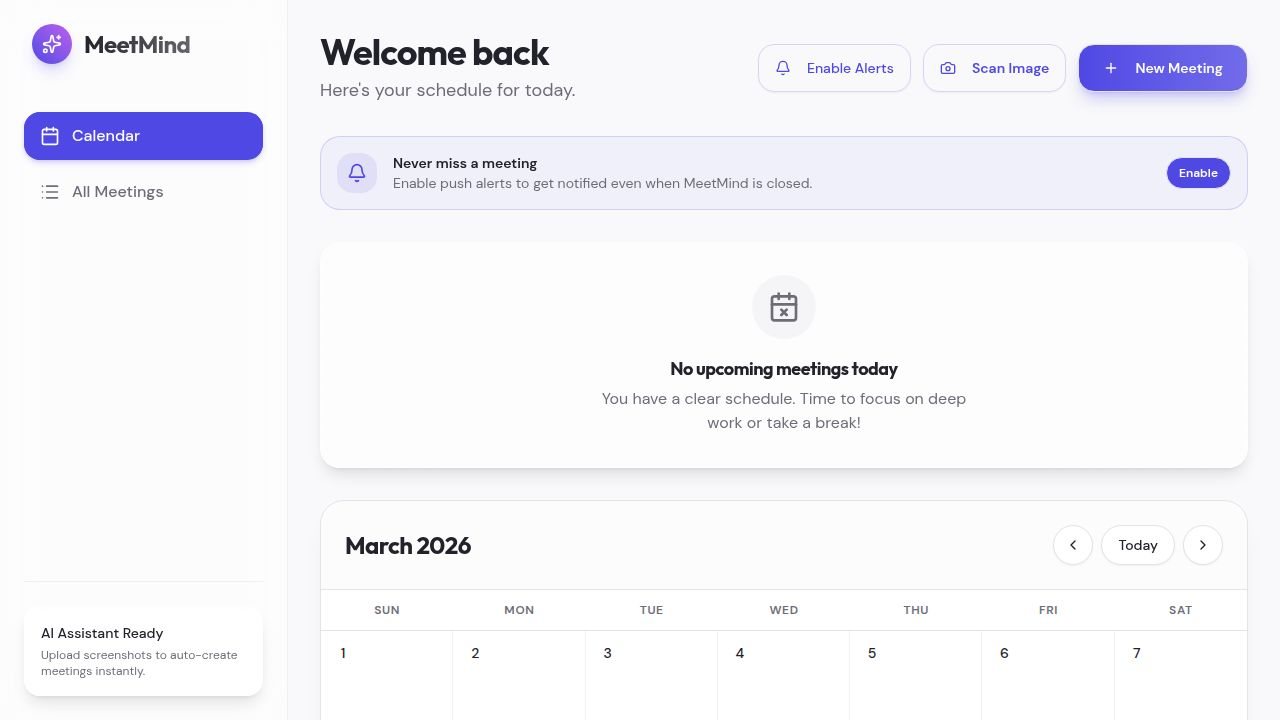
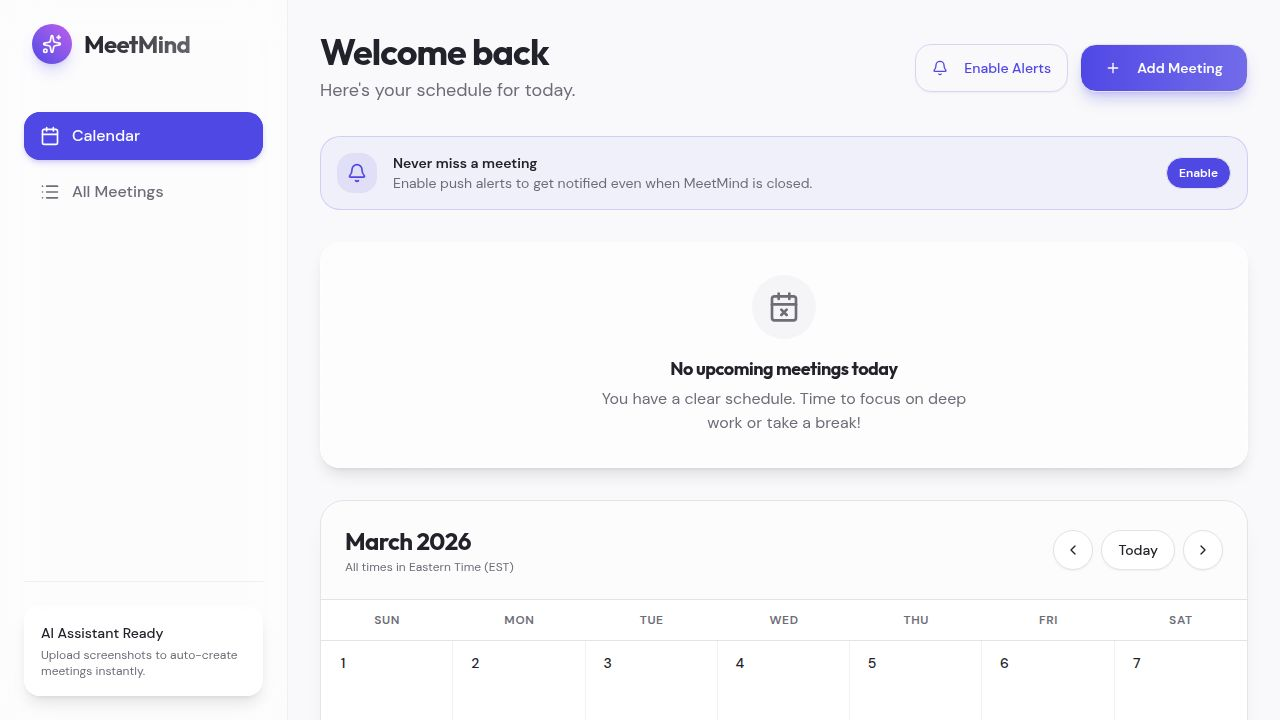
Add a meeting option choice to improve user meeting creation flow
Introduce AddMeetingChoiceModal, refactor dashboard to use it for new meeting creation, and remove the separate "Scan Image" button.

Replit-Commit-Author: Agent
Replit-Commit-Session-Id: 40a09d66-ea8f-438b-a3fd-0f206ba2ebe8
Replit-Commit-Checkpoint-Type: full_checkpoint
Replit-Commit-Event-Id: 2fe70bba-17da-4cfc-8b4c-a26fd8e86466
Replit-Commit-Screenshot-Url: https://storage.googleapis.com/screenshot-production-us-central1/be00c717-2a86-4972-aa62-d7dbd52639e6/40a09d66-ea8f-438b-a3fd-0f206ba2ebe8/zVXtkad
Replit-Helium-Checkpoint-Created: true

diff --git a/artifacts/meetmind/src/pages/dashboard.tsx b/artifacts/meetmind/src/pages/dashboard.tsx
@@ -3,7 +3,7 @@ import { useGetMeetings } from '@workspace/api-client-react';
 import { Meeting } from '@workspace/api-client-react/src/generated/api.schemas';
 import { compareAsc, parseISO } from 'date-fns';
 import { isTodayEST, isFutureEST } from '@/lib/timezone';
-import { Plus, Camera, Loader2, CalendarX, BellRing, BellOff, Bell } from 'lucide-react';
+import { Plus, Loader2, CalendarX, BellRing, BellOff, Bell } from 'lucide-react';
 import { Button } from '@/components/ui/button';
 import { Dialog, DialogContent, DialogTitle, DialogDescription } from '@/components/ui/dialog';
 import { Layout } from '@/components/layout';
@@ -13,6 +13,7 @@ import { MeetingForm } from '@/components/meeting-form';
 import { AiUploadModal } from '@/components/ai-upload-modal';
 import { MeetingDetailModal } from '@/components/meeting-detail-modal';
 import { DayModal } from '@/components/day-modal';
+import { AddMeetingChoiceModal } from '@/components/add-meeting-choice-modal';
 import { useReminders } from '@/hooks/use-reminders';
 import { usePushNotifications } from '@/hooks/use-push-notifications';
 import { motion, AnimatePresence } from 'framer-motion';
@@ -37,13 +38,27 @@ export default function Dashboard() {
   const [dayOpen, setDayOpen] = useState(false);
   const [selectedDay, setSelectedDay] = useState<Date | null>(null);
 
+  // ── Add-meeting choice ──────────────────────────────────────────────────────
+  const [choiceOpen, setChoiceOpen] = useState(false);
+  const [pendingDate, setPendingDate] = useState<Date | undefined>(undefined);
+
   // ── AI upload ───────────────────────────────────────────────────────────────
   const [aiModalOpen, setAiModalOpen] = useState(false);
 
   // ── Handlers ────────────────────────────────────────────────────────────────
 
+  // Opens choice modal; optionally pre-seeds a date for the manual path
   const openNewMeeting = (date?: Date) => {
-    setSelectedMeeting(date ? { startTime: date.toISOString() } : undefined);
+    setPendingDate(date);
+    setChoiceOpen(true);
+  };
+
+  const handleChooseScan = () => {
+    setAiModalOpen(true);
+  };
+
+  const handleChooseManual = () => {
+    setSelectedMeeting(pendingDate ? { startTime: pendingDate.toISOString() } : undefined);
     setIsAiExtracted(false);
     setFormOpen(true);
   };
@@ -165,19 +180,11 @@ export default function Dashboard() {
           <div className="flex gap-3 w-full sm:w-auto flex-wrap">
             {pushButton()}
             <Button
-              variant="outline"
-              className="flex-1 sm:flex-none rounded-xl h-12 px-4 border-primary/20 hover:bg-primary/5 text-primary hover:text-primary transition-all font-semibold"
-              onClick={() => setAiModalOpen(true)}
-            >
-              <Camera className="w-5 h-5 mr-2" />
-              Scan Image
-            </Button>
-            <Button
               className="flex-1 sm:flex-none rounded-xl h-12 px-6 shadow-lg shadow-primary/25 hover:shadow-xl hover:shadow-primary/30 transition-all hover:-translate-y-0.5 font-semibold bg-gradient-to-r from-primary to-primary/80"
               onClick={() => openNewMeeting()}
             >
               <Plus className="w-5 h-5 mr-2" />
-              New Meeting
+              Add Meeting
             </Button>
           </div>
         </div>
@@ -256,6 +263,14 @@ export default function Dashboard() {
       </div>
 
       {/* ── Modals ─────────────────────────────────────────────────────────────── */}
+
+      {/* Add meeting choice (scan vs manual) */}
+      <AddMeetingChoiceModal
+        isOpen={choiceOpen}
+        onClose={() => setChoiceOpen(false)}
+        onScan={handleChooseScan}
+        onManual={handleChooseManual}
+      />
 
       {/* AI image upload */}
       <AiUploadModal

diff --git a/artifacts/meetmind/src/components/add-meeting-choice-modal.tsx b/artifacts/meetmind/src/components/add-meeting-choice-modal.tsx
@@ -1,0 +1,61 @@
+import React from 'react';
+import { Dialog, DialogContent, DialogTitle, DialogDescription } from '@/components/ui/dialog';
+import { Camera, PenLine } from 'lucide-react';
+import { motion } from 'framer-motion';
+
+interface AddMeetingChoiceModalProps {
+  isOpen: boolean;
+  onClose: () => void;
+  onScan: () => void;
+  onManual: () => void;
+}
+
+export function AddMeetingChoiceModal({ isOpen, onClose, onScan, onManual }: AddMeetingChoiceModalProps) {
+  return (
+    <Dialog open={isOpen} onOpenChange={onClose}>
+      <DialogContent className="sm:max-w-sm p-0 overflow-hidden bg-card border border-border shadow-2xl rounded-2xl">
+        <DialogTitle className="sr-only">Add a Meeting</DialogTitle>
+        <DialogDescription className="sr-only">Choose how to add your meeting</DialogDescription>
+
+        <div className="p-6 space-y-4">
+          <div className="text-center mb-6">
+            <h2 className="text-xl font-display font-bold text-foreground">Add a Meeting</h2>
+            <p className="text-muted-foreground text-sm mt-1">How would you like to add it?</p>
+          </div>
+
+          {/* Scan option */}
+          <motion.button
+            whileTap={{ scale: 0.97 }}
+            whileHover={{ scale: 1.01 }}
+            onClick={() => { onClose(); onScan(); }}
+            className="w-full flex items-center gap-4 p-4 rounded-2xl border-2 border-primary/20 bg-primary/5 hover:bg-primary/10 hover:border-primary/40 transition-all text-left group"
+          >
+            <div className="w-12 h-12 rounded-xl bg-primary/10 flex items-center justify-center flex-shrink-0 group-hover:bg-primary/20 transition-colors">
+              <Camera className="w-6 h-6 text-primary" />
+            </div>
+            <div>
+              <p className="font-semibold text-foreground">Scan Image</p>
+              <p className="text-sm text-muted-foreground">Upload a screenshot or invite — AI fills in the details</p>
+            </div>
+          </motion.button>
+
+          {/* Manual option */}
+          <motion.button
+            whileTap={{ scale: 0.97 }}
+            whileHover={{ scale: 1.01 }}
+            onClick={() => { onClose(); onManual(); }}
+            className="w-full flex items-center gap-4 p-4 rounded-2xl border-2 border-border hover:border-primary/20 hover:bg-muted/50 transition-all text-left group"
+          >
+            <div className="w-12 h-12 rounded-xl bg-muted flex items-center justify-center flex-shrink-0 group-hover:bg-muted/70 transition-colors">
+              <PenLine className="w-6 h-6 text-foreground/70" />
+            </div>
+            <div>
+              <p className="font-semibold text-foreground">Enter Manually</p>
+              <p className="text-sm text-muted-foreground">Type in the meeting title, time, and details yourself</p>
+            </div>
+          </motion.button>
+        </div>
+      </DialogContent>
+    </Dialog>
+  );
+}
